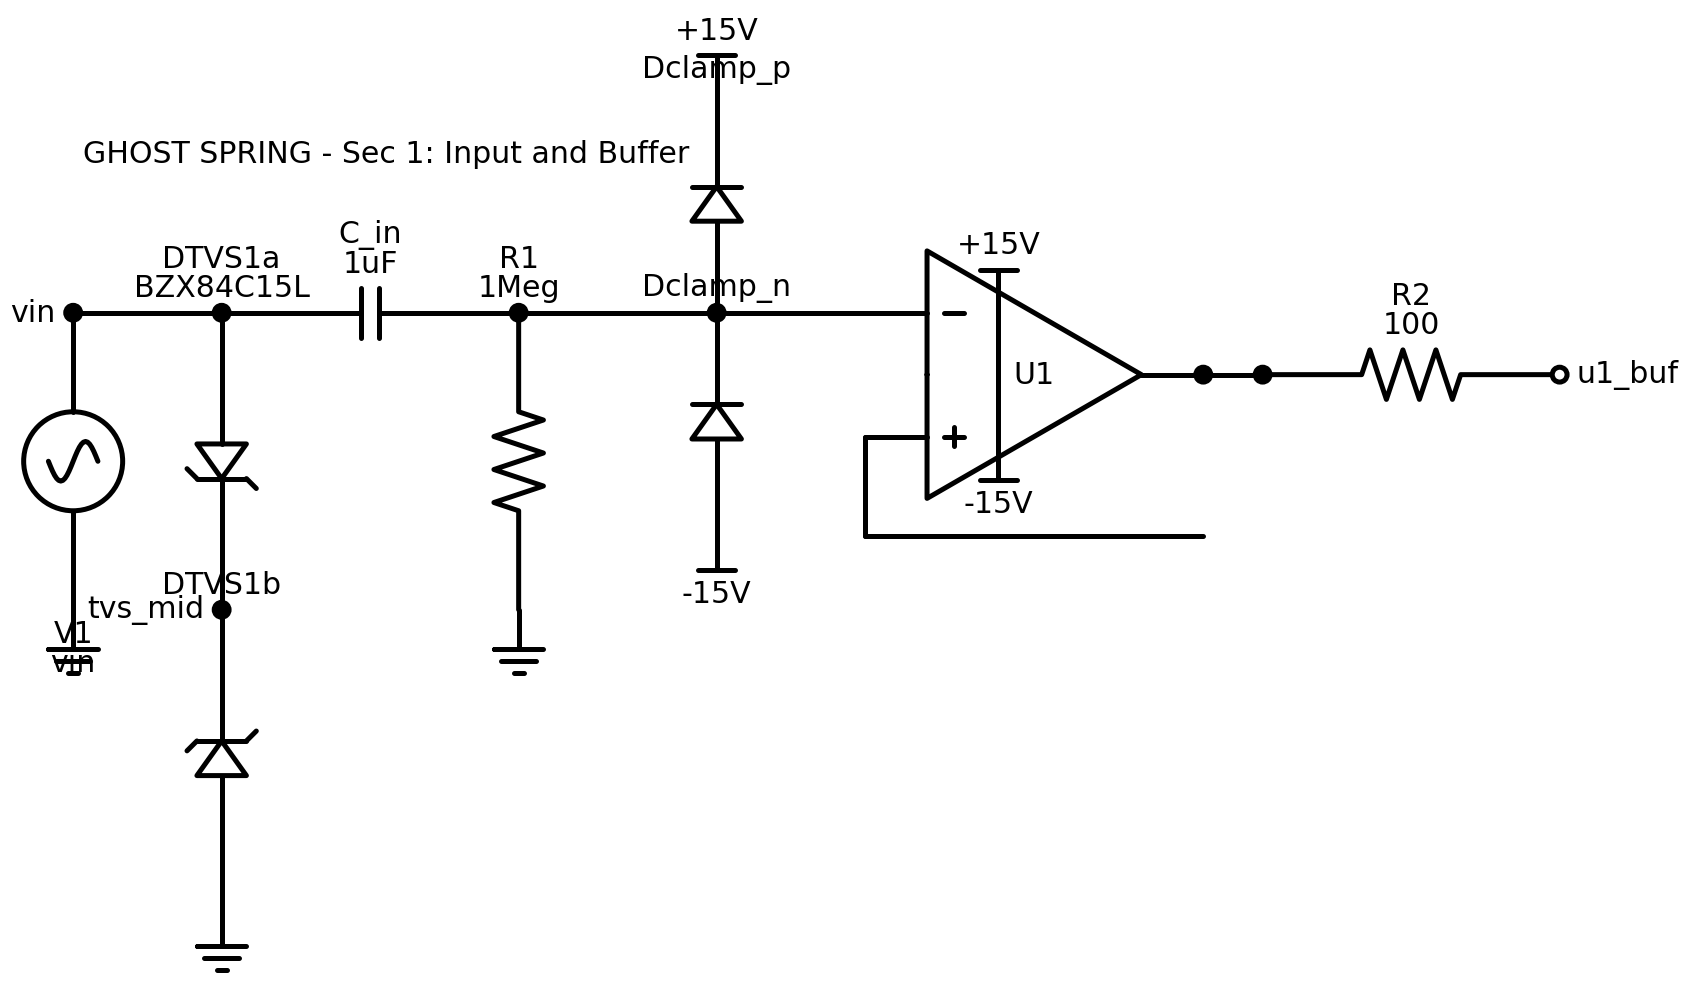
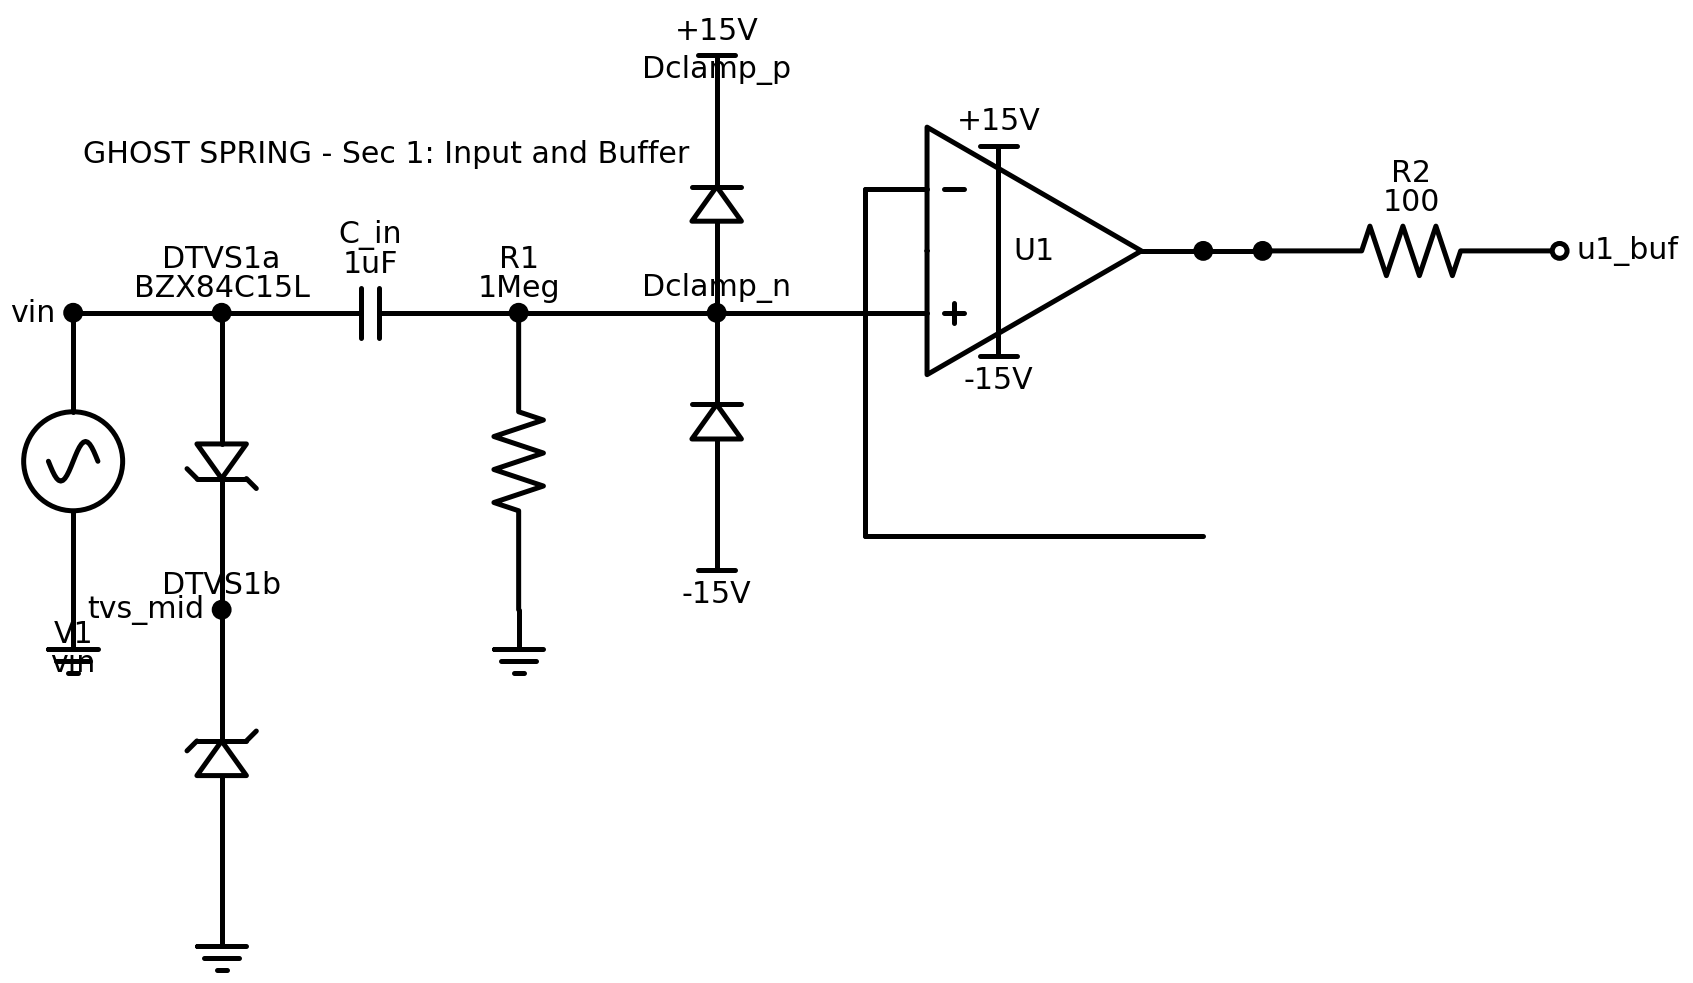
fix(schematics): correct R5/C2 topology and op-amp +/- polarity in all sections
Two visual correctness bugs fixed in ghost_spring_schematics.py:

Sec 2 — R5/C2 drawn in series (q1_e→R5→enode→C2→GND); must be parallel
branches. Both R5 (emitter degeneration) and C2 (bypass cap) now connect
independently from q1_e to GND.

Sec 1/3/4 — All three op-amps (U1, U2, U3) anchored at in1 which schemdraw
labels '−' (inverting). Signal was visually shown entering the '−' input with
feedback going to '+' (positive feedback) — wrong and misleading for a builder.
Fixed by anchoring at in2 ('+', non-inverting) and wiring feedback to in1 ('−').
Feedback lengths adjusted to maintain equivalent loop geometry.

Validate: 388/388 checks pass. PNGs regenerated.

Changed region(s): [[0.4914, 0.0916, 1.0, 0.4273], [0.5222, 0.3967, 0.6143, 0.5188], [0.6143, 0.3967, 0.645, 0.4273]]

diff --git a/docs/reverb-tank/schematics/ghost_spring_schematics.py b/docs/reverb-tank/schematics/ghost_spring_schematics.py
@@ -89,11 +89,11 @@ def section1():
     d.add(elm.Line().right().at(clamp).length(1.5))
     opin = d.here
 
-    # U1 opamp, non-inv from node, unity gain
-    op = elm.Opamp(leads=True).right().at(opin).anchor('in1').label('U1', loc='center', ofst=(0, 0))
+    # U1 opamp: signal at in2 (+, non-inverting), unity gain
+    op = elm.Opamp(leads=True).right().at(opin).anchor('in2').label('U1', loc='center', ofst=(0, 0))
     d.add(op)
-    # tie inverting input to output (unity gain)
-    d.add(elm.Line().down().at(op.in2).length(1))
+    # tie inverting input (-) = in1 to output (unity gain, negative feedback)
+    d.add(elm.Line().down().at(op.in1).length(3.5))
     fbk = d.here
     d.add(elm.Line().right().tox(op.out))
     d.add(elm.Dot().at(op.out))
@@ -202,12 +202,16 @@ def section2():
     q1_e = ewire.end
     d.add(elm.Dot().at(q1_e).label('q1_e', loc='right'))
 
-    # R5 68 from emitter to node, C2 100uF node to GND
-    r5 = elm.Resistor().down().at(q1_e).label(f'R5\n{cp.R5}', loc='right')
+    # R5 68Ω and C2 100µF in PARALLEL from q1_e to GND
+    # R5 left branch: emitter degeneration
+    r5 = elm.Resistor().down().at(q1_e).label(f'R5\n{cp.R5}', loc='left')
     d.add(r5)
-    enode = r5.end
-    d.add(elm.Dot().at(enode))
-    c2 = elm.Capacitor2().down().at(enode).label(f'C2\n{cp.C2}F', loc='right')
+    d.add(elm.Ground().at(r5.end))
+    # C2 right branch: emitter bypass cap (parallel with R5)
+    d.add(elm.Line().right().at(q1_e).length(1.5))
+    c2_top = d.here
+    d.add(elm.Dot())
+    c2 = elm.Capacitor2().down().at(c2_top).label(f'C2\n{cp.C2}F', loc='right')
     d.add(c2)
     d.add(elm.Ground().at(c2.end))
 
@@ -285,12 +289,12 @@ def section3():
     d.add(elm.Line().down().at(rb.end).length(0.5))
     d.add(elm.Ground())
 
-    # U2 opamp
-    op = elm.Opamp(leads=True).right().at(u2_in_pos).anchor('in1').label('U2', loc='center')
+    # U2 opamp: signal at in2 (+, non-inverting)
+    op = elm.Opamp(leads=True).right().at(u2_in_pos).anchor('in2').label('U2', loc='center')
     d.add(op)
 
-    # Inverting input node u2_inv
-    d.add(elm.Line().down().at(op.in2).length(1.2))
+    # Inverting input (-) node u2_inv — in1 is the inverting input
+    d.add(elm.Line().down().at(op.in1).length(3.7))
     u2_inv = d.here
     d.add(elm.Dot().at(u2_inv).label('u2_inv', loc='left'))
     # Ri 470 from u2_inv to GND
@@ -401,11 +405,11 @@ def section4():
     d.add(elm.Dot(open=True).color('blue').label('from rv3_wiper (0R)', loc='right'))
 
     # --- Output ---
-    # U3 opamp non-inv = mix_node, unity gain
-    op = elm.Opamp(leads=True).right().at(mix_node).anchor('in1').label('U3', loc='center')
+    # U3 opamp: signal at in2 (+, non-inverting), unity gain
+    op = elm.Opamp(leads=True).right().at(mix_node).anchor('in2').label('U3', loc='center')
     d.add(op)
-    # unity gain: out -> in2
-    d.add(elm.Line().down().at(op.in2).length(1))
+    # unity gain: out -> in1 (-), negative feedback
+    d.add(elm.Line().down().at(op.in1).length(3.5))
     d.add(elm.Line().right().tox(op.out))
     d.add(elm.Dot().at(op.out))
     d.add(elm.Line().up().toy(op.out))
